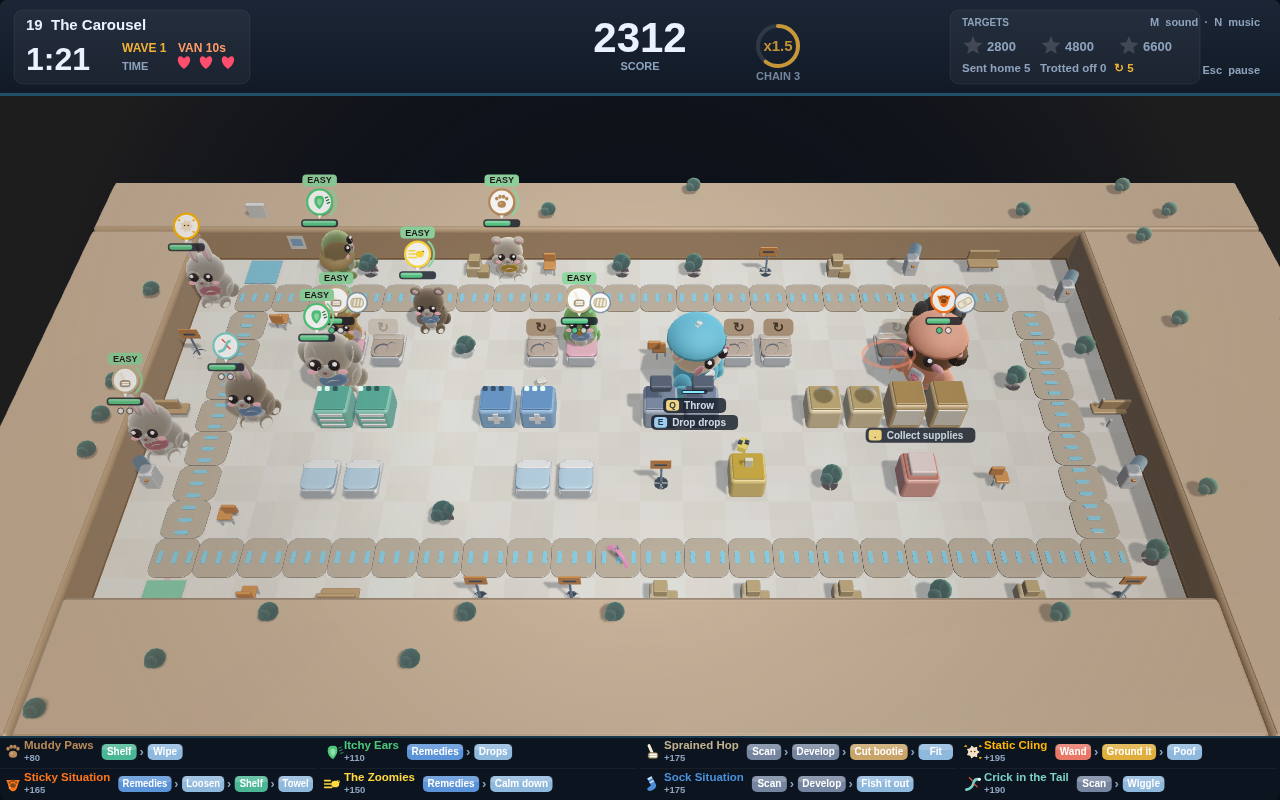
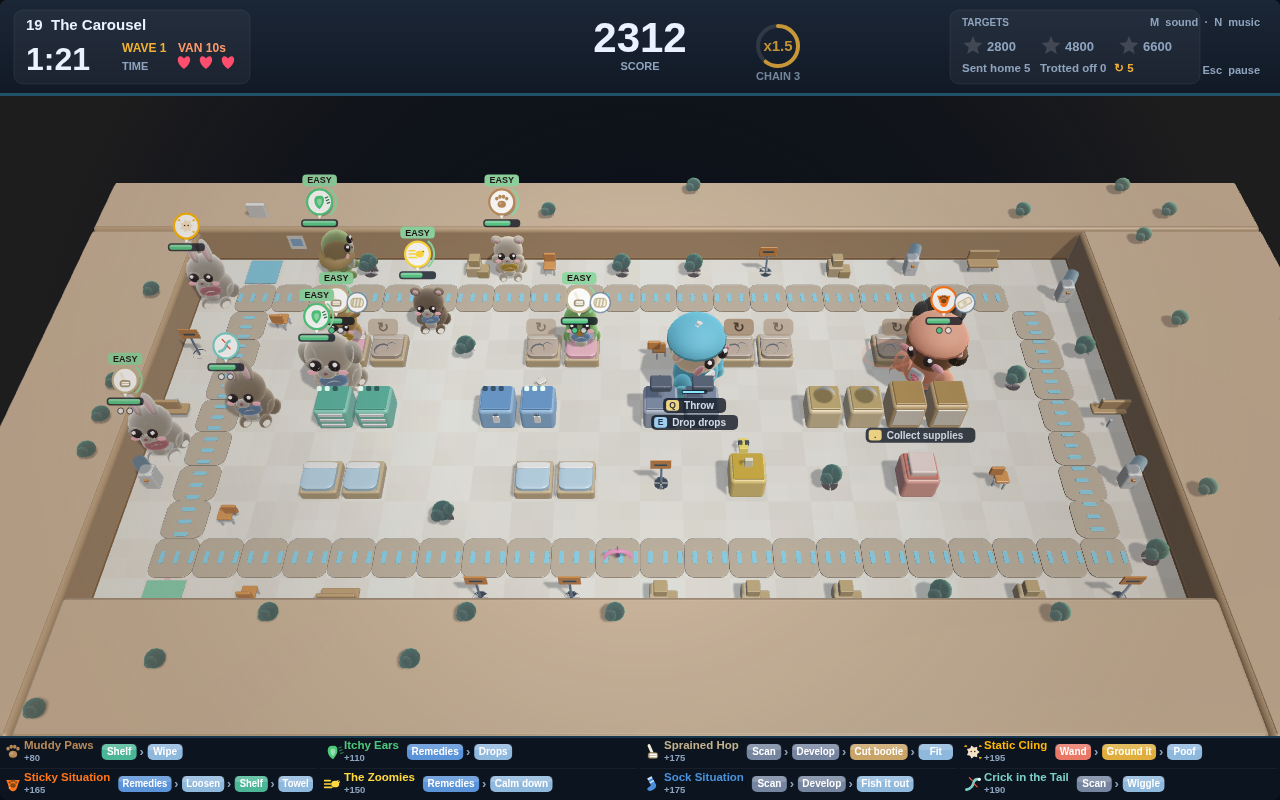
Audit everything: a second checker, and the four things only it could see
The vocabulary audit reads every string DECLARED in a table. That is a real
blind spot, and it had four things hiding in it — copy assembled inline in a
draw call is invisible to a table walk. drawnaudit.js closes it by hooking
text() and wrapText() and recording everything the game actually PAINTS, then
driving it through every screen, every how-to page, all 28 select slots, every
event banner, every station prompt with every item in hand, a grumpy
escalation, a loss, a pause, the results card, the builder shop and all nine
tutorial steps. 514 distinct painted strings.

What only it could see:

- The whole modes page of the how-to, still describing an ER with beds and
  discharges — and still claiming "Fifteen handmade wards" when the campaign
  has had twenty-five since the expansion. Stale fact as well as stale word.
- Two how-to headings, TURN OVER THE BED and FIRE SHUTTERS, and the line about
  the bay counter filling with dirty beds.
- BAY CLOSED and PIPE BURST named in prose after the events themselves were
  renamed to WET FLOOR and WATER BOWL DOWN.

Three more found by looking rather than grepping:

- The basket was still a hospital bed — chassis, mattress, pillow, footboard.
  It is a pet basket now: a low woven tub with a padded rim you can see over, a
  cushion, and a folded blanket over one end.
- The remedy cabinet wore a white cross on its door, the same emblem problem as
  the nurses' badge. It is a dropper bottle.
[…]

diff --git a/index.html b/index.html
@@ -6532,6 +6532,7 @@ const MAT = {
   wallTop:  "#c2ebe1",
   base:     "#7cc4b4",
   bedFrame: "#fbfdff",
+  basketWeave: "#c9a878",
   bedSheet: "#eef5fc",
   metal:    "#c9d4de",
   accent:   "#ef5d6b"
@@ -6626,10 +6627,19 @@ function buildLevelMesh(world) {
   for (const st of world.stations) {
     const cx = st.x + 0.5, cz = st.y + 0.5;
     if (st.type === "basket") {
-      mbRoundedBox(mb, cx, 0.10, cz, 0.30, 0.10, 0.42, 0.05, rgb(TH.metal), 2);   // chassis
-      mbRoundedBox(mb, cx, 0.24, cz, 0.40, 0.09, 0.46, 0.07, rgb(TH.bedFrame), 3); // mattress
-      mbRoundedBox(mb, cx, 0.38, cz - 0.28, 0.30, 0.06, 0.13, 0.05, rgb("#ffffff"), 3); // pillow
-      mbRoundedBox(mb, cx, 0.30, cz + 0.47, 0.34, 0.16, 0.03, 0.03, rgb(TH.metal), 2); // footboard
+      /* A pet basket, not a hospital trolley: a low woven tub with a padded
+         rim you can see over, and a cushion inside. The rim is four boxes
+         rather than a ring because there is no subtractive primitive here —
+         and four boxes read as a woven basket anyway. */
+      const weave = rgb(TH.basketWeave || "#c9a878"), pad = rgb(TH.bedFrame);
+      mbRoundedBox(mb, cx, 0.055, cz, 0.42, 0.055, 0.44, 0.10, weave, 3);      // floor of the tub
+      mbRoundedBox(mb, cx, 0.16, cz, 0.34, 0.055, 0.36, 0.10, pad, 3);          // the cushion
+      for (const [ox, oz, hx, hz] of [[0, -0.40, 0.42, 0.055], [0, 0.40, 0.42, 0.055],
+                                      [-0.39, 0, 0.055, 0.45], [0.39, 0, 0.055, 0.45]])
+        mbRoundedBox(mb, cx + ox, 0.155, cz + oz, hx, 0.155, hz, 0.06, weave, 3);
+      // a folded blanket over one end, so a full basket still reads as soft
+      mbRoundedBox(mb, cx, 0.235, cz + 0.24, 0.30, 0.035, 0.11, 0.04,
+                   rgb(TH.curtain || "#ffd9e2"), 2);
     } else {
       const info = STATIONS[st.type];
       const body = rgb(info.color), edge = rgb(info.edge);
@@ -6652,8 +6662,10 @@ function buildStationDetail(mb, st, cx, cz, h) {
       }
       break;
     case "remedy":
-      mbRoundedBox(mb, cx, h * 0.62, cz + 0.42, 0.07, 0.20, 0.03, 0.02, white, 2);
-      mbRoundedBox(mb, cx, h * 0.62, cz + 0.42, 0.20, 0.07, 0.03, 0.02, white, 2);
+      // a dropper bottle on the door, not a cross
+      mbRoundedBox(mb, cx, h * 0.60, cz + 0.42, 0.09, 0.13, 0.03, 0.04, white, 2);
+      mbRoundedBox(mb, cx, h * 0.78, cz + 0.42, 0.035, 0.06, 0.03, 0.02, white, 2);
+      mbRoundedBox(mb, cx, h * 0.86, cz + 0.42, 0.06, 0.03, 0.03, 0.02, dark, 2);
       break;
     case "scanner":
       mbCylinder(mb, cx, h + 0.30, cz, 0.05, 0.05, 0.55, rgb(TH.metal), 10, true);
@@ -9046,30 +9058,34 @@ function drawTitle(g) {
     });
   }
 
-  if (Pads.connected()) {
-    const nP = Pads.connected();
-    text(g, nP === 1 ? "1 gamepad connected — it drives Player 1"
-                     : nP + " gamepads connected — in plug-in order",
-         W / 2, CY - 16, 14, "#6fd3b4", "center");
-  }
-
+  /* Four lines were being stacked inside forty pixels — the orientation prompt
+     was painted straight across "Press 1 solo", and the gamepad line four
+     pixels off it. One ladder, spaced by the size of the text on each rung. */
   text(g, "Escape pauses · M mutes · H how to play · O options",
-       W / 2, CY - 58, 14, PALETTE.dim, "center", "normal");
+       W / 2, CY - 92, 14, PALETTE.dim, "center", "normal");
 
-  const blink = (Math.sin(performance.now() / 320) + 1) / 2;
-  g.save(); g.globalAlpha = 0.55 + 0.45 * blink;
-  text(g, "Press  1  solo          Press  2  co-op", W / 2, CY - 20, 30, "#ffd54a", "center");
   if (!Game.tutorialDone) {
     // first boot: the loudest thing on the screen should be the thing that
     // teaches you to play it
     const pulse = 0.55 + 0.45 * Math.sin(performance.now() / 320);
     g.save(); g.globalAlpha = pulse;
     text(g, "New here?  Press  T  for a two-minute orientation \u2014 no clock, nothing to lose",
-         W / 2, CY - 48, 17, "#6fd3b4", "center");
+         W / 2, CY - 64, 17, "#6fd3b4", "center");
     g.restore();
   } else {
-    text(g, "T  orientation", W / 2, CY - 48, 13, PALETTE.dim, "center", "normal");
+    text(g, "T  orientation", W / 2, CY - 64, 13, PALETTE.dim, "center", "normal");
   }
+
+  if (Pads.connected()) {
+    const nP = Pads.connected();
+    text(g, nP === 1 ? "1 gamepad connected — it drives Player 1"
+                     : nP + " gamepads connected — in plug-in order",
+         W / 2, CY - 40, 14, "#6fd3b4", "center");
+  }
+
+  const blink = (Math.sin(performance.now() / 320) + 1) / 2;
+  g.save(); g.globalAlpha = 0.55 + 0.45 * blink;
+  text(g, "Press  1  solo          Press  2  co-op", W / 2, CY - 10, 30, "#ffd54a", "center");
   g.restore();
 
 }
@@ -9546,15 +9562,15 @@ function drawHowToProcedures(g) {
    gets a card of its own rather than a line in a tip list. */
 function drawHowToFloor(g) {
   const cards = [
-    { col: "#c98a5a", title: "TURN OVER THE BED",
+    { col: "#c98a5a", title: "CHANGE THE BASKET",
       what: "A basket is left mucky after every send-off and nobody new can settle in it.",
       how: "Stand at a mucky basket with EMPTY hands and hold Q to change it. Fast turnarounds pay a bonus.",
-      watch: "The bay counter at the top turns amber then red as dirty beds pile up. Red means you are about to run out of anywhere to put people." },
+      watch: "The basket counter at the top turns amber then red as mucky baskets pile up. Red means you are about to run out of anywhere to put anyone." },
     { col: "#ff8fa3", title: "TWO-NURSE LIFTS",
       what: "Some grumpy arrivals come in on a trolley and wear a 2 NURSES badge.",
       how: "One of you cannot budge them. Bring your partner within arm's reach and press E — you lift together.",
       watch: "Team lifts pay extra. Solo shifts carry two-nurse cases normally, so this only bites in co-op." },
-    { col: "#f2b03c", title: "FIRE SHUTTERS",
+    { col: "#f2b03c", title: "CORRIDOR DOORS",
       what: "From the third room on, a corridor door drops on a timer and seals that route.",
       how: "Nothing to press — read the amber warning stripe and get through, or go the long way round.",
       watch: "Doors never trap you or cut the clinic in two, but they will cost you a run if you commit to a doorway too late." }
@@ -9598,9 +9614,9 @@ function drawHowToFloor(g) {
 
 function drawHowToModes(g) {
   const modes = [
-    ["CAMPAIGN", "#48c3f0", "Fifteen handmade wards, a little over two minutes each. Score sets your stars; stars unlock the next ward and your perks. Three shift challenges per ward give you a reason to come back. Playing alone gets roomier patience, calmer arrivals, an extra life and its own score targets."],
-    ["NIGHT SHIFT (ENDLESS)", "#c39bff", "No clock. Arrivals tighten forever and every tenth patient buys back a life. Open from the start — pick it on the shift select."],
-    ["CLINIC BUILDER (WAVES)", "#6fd3b4", "You design the department. Ninety-second waves; treat animals to earn credits, then between waves buy beds, machines and staff and place them wherever you like. Press start when your ER is ready. Waves escalate; the run ends when you run out of lives. Also open from the start."]
+    ["CAMPAIGN", "#48c3f0", "Twenty-five handmade rooms, a little over two minutes each. Score sets your stars; stars unlock the next room and your perks. Three shift challenges per room give you a reason to come back. Playing alone gets roomier patience, calmer arrivals, an extra go and its own score targets."],
+    ["NIGHT SHIFT (ENDLESS)", "#c39bff", "No clock. Arrivals tighten forever and every tenth animal buys back a go. Open from the start — pick it on the shift select."],
+    ["CLINIC BUILDER (WAVES)", "#6fd3b4", "You design the clinic. Ninety-second waves; send animals home to earn credits, then between waves buy baskets, machines and staff and place them wherever you like. Press start when your clinic is ready. Waves escalate; the run ends when you run out of goes. Also open from the start."]
   ];
   let y = 116;
   for (const [name, col, blurb] of modes) {
@@ -9611,8 +9627,8 @@ function drawHowToModes(g) {
     y += 94;
   }
   const extras = [
-    ["Shift events", "From the third ward on, something hits mid-shift: an ambulance, an outbreak, a power flicker, a VIP. Discharges pay extra while one runs."],
-    ["The floor moves", "Two of those change the room: BAY CLOSED ropes off floor for twenty seconds, PIPE BURST keeps dropping puddles. Neither ever cuts the ward in two."],
+    ["Shift events", "From the third room on, something hits mid-shift: a van of puppies, itchy season, a power flicker, a show champion. Send-offs pay extra while one runs."],
+    ["The floor moves", "Two of those change the room: WET FLOOR ropes off a patch for twenty seconds, WATER BOWL DOWN keeps dropping puddles. Neither ever cuts the clinic in two."],
     ["Pickups", "Coffee makes you quicker; adrenaline makes sprinting free. Both sit on the floor and expire if ignored."],
     ["Difficulty", "Casual, Standard or Overtime — press T on the shift select. Overtime pays 1.45x."],
     ["Moods", "Every arrival is easy, ordinary or grumpy, and the mix gets nippier as the clock runs down."]
@@ -9630,7 +9646,7 @@ function drawHowToModes(g) {
   /* Where the score actually comes from. Players were tuning their play
      against a number they had never been shown the rules for. */
   const bonuses = [
-    ["Chain", "Discharge again quickly and your combo climbs. The multiplier rides every payout, so a broken chain costs far more than one slow patient."],
+    ["Chain", "Send another home quickly and your combo climbs. The multiplier rides every payout, so a broken chain costs far more than one slow animal."],
     ["Specialist", "Three of the same condition back to back."],
     ["Team lift", "Both nurses carrying one two-nurse case."],
     ["Turnover", "Change a mucky basket promptly after a send-off."],
